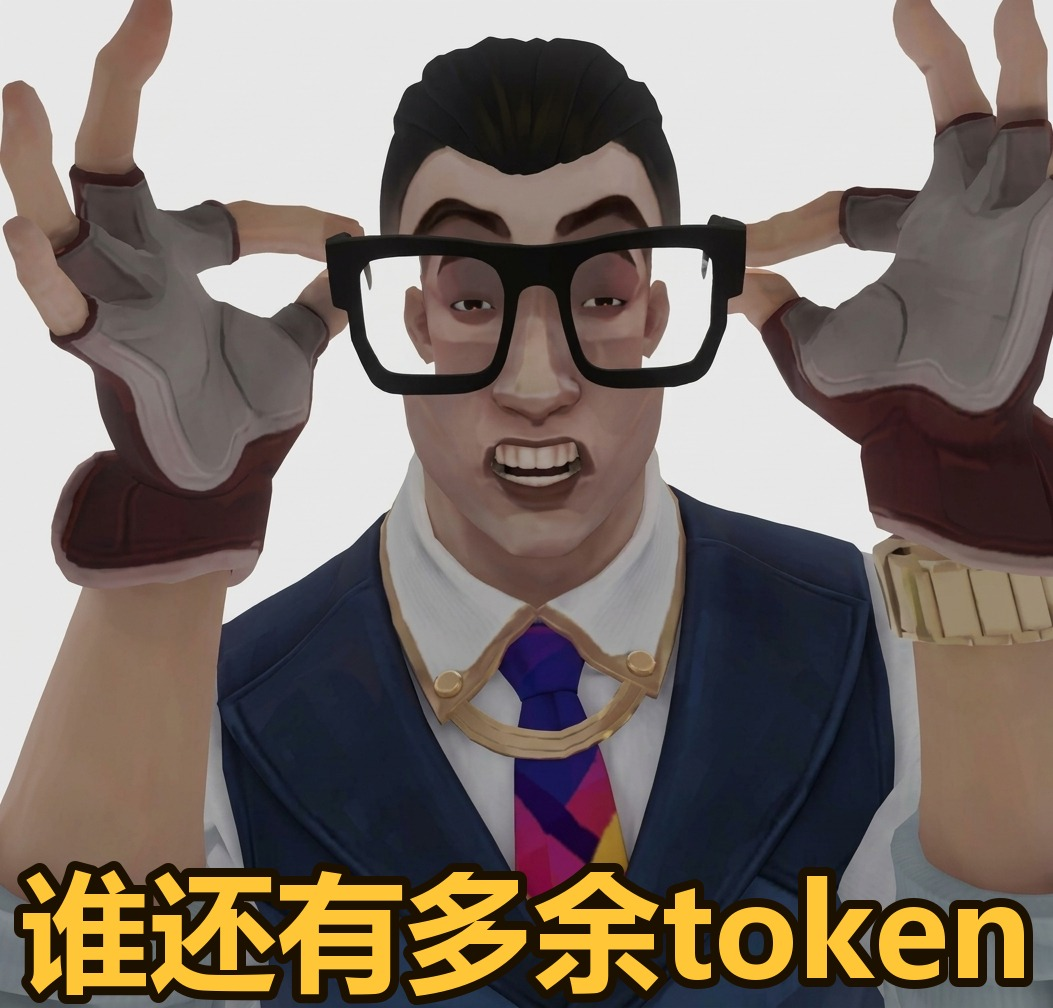
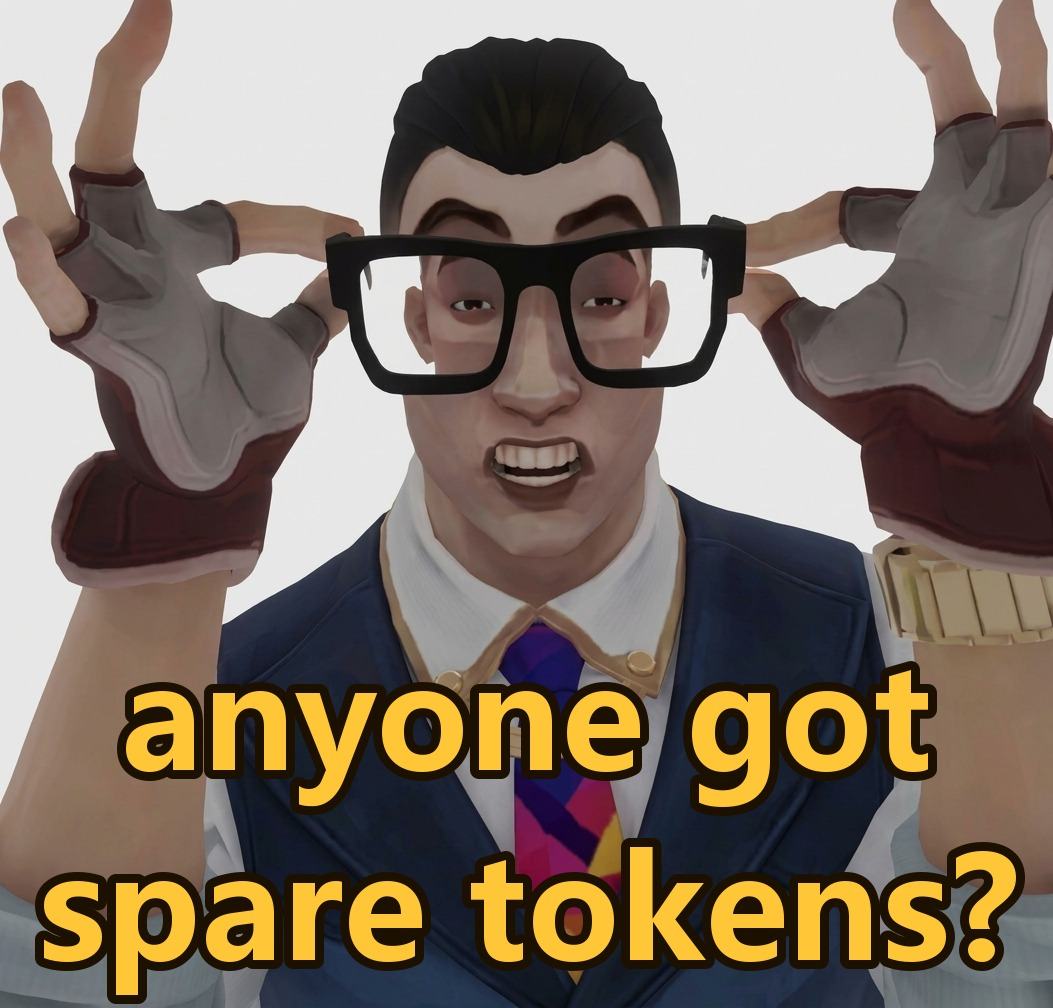
Recaption the meme in English
A Chinese-only caption is a joke an English-speaking team cannot read, which
defeats the purpose of including it. Same template, same gold treatment.

Two lines instead of one: the full question on a single line caps out around
76px at this width, which reads as a subtitle rather than a caption. Splitting
it allows 142px, which is what the original meme used. make_meme.py now takes
one string per line, computes the largest size at which every line fits, and
refuses to render rather than shrinking silently.

Still byte-reproducible from the committed script.

Changed region(s): [[0.0, 0.8304, 1.0, 1.0], [0.0912, 0.6458, 0.9117, 0.8304]]

diff --git a/assets/memes/make_meme.py b/assets/memes/make_meme.py
@@ -10,30 +10,39 @@ Usage:
     python make_meme.py path\\to\\base.jpg [out.jpg]
 
 The committed caption (spare_tokens.jpg) was produced from the 1053x1008 version
-of the template with these exact settings. Sizes are in pixels and are absolute,
-not relative, so a different-resolution base will place the text differently --
-adjust SIZE and the width ceiling together if you swap the source.
+of the template with these exact settings. Sizes are absolute, not relative, so a
+different-resolution base will place the text differently -- change SIZE and the
+width ceiling together if you swap the source.
+
+Language note: the caption is in English because the audience for this repository
+is an English-speaking engineering team. A Chinese-only caption is a joke they
+cannot read, which defeats the point. The two-line form exists because the full
+question set on one line caps out around 76px, which is far too small to carry a
+meme; splitting it allows 142px.
 """
 import os
 import sys
 from PIL import Image, ImageDraw, ImageFont
 
-TEXT = "谁还有多余token"
+# One string per line, top to bottom. The committed file uses these two.
+LINES = ["anyone got", "spare tokens?"]
 
 # Treatment, chosen to match the original meme's look and the image's own accents.
-SIZE = 128              # largest size at which all 9 glyphs fit this width
-FILL = (255, 199, 56)   # gold: picks up the chain and watch, reads on the navy suit
-OUTLINE = (28, 16, 0)   # near-black, warm, so the edge does not look pasted on
-STROKE = 9              # outline width
-BOTTOM_PAD = 2          # px of clearance under the baseline
-WIDTH_CEILING = 0.985   # never let the caption exceed this fraction of the width
+FILL = (255, 199, 56)     # gold: picks up the chain and watch, reads on the navy suit
+OUTLINE = (28, 16, 0)     # near-black, warm, so the edge does not look pasted on
+STROKE = 9                # outline width
+BOTTOM_PAD = 4            # px of clearance below the last line
+LINE_GAP_RATIO = 0.16     # leading between lines, as a fraction of the font size
+WIDTH_CEILING = 0.955     # never let a line exceed this fraction of the width
+HEIGHT_CEILING = 0.36     # sanity bound: the block must not swallow the picture.
+                          # The committed two-line treatment is 343px of 1008 = 34%, which
+                          # is deliberate -- this is meant to dominate, as the original did.
 
 FONT_CANDIDATES = [
-    r"C:\Windows\Fonts\msyhbd.ttc",     # Microsoft YaHei Bold -- the committed file
-    r"C:\Windows\Fonts\simhei.ttf",     # SimHei, heavier and squarer
-    r"C:\Windows\Fonts\msyh.ttc",
-    "/usr/share/fonts/opentype/noto/NotoSansCJK-Bold.ttc",
-    "/System/Library/Fonts/PingFang.ttc",
+    r"C:\Windows\Fonts\msyhbd.ttc",     # Microsoft YaHei Bold -- used for the committed file
+    r"C:\Windows\Fonts\arialbd.ttf",
+    "/usr/share/fonts/truetype/dejavu/DejaVuSans-Bold.ttf",
+    "/System/Library/Fonts/Supplemental/Arial Bold.ttf",
 ]
 
 
@@ -41,7 +50,7 @@ def pick_font():
     for p in FONT_CANDIDATES:
         if os.path.exists(p):
             return p
-    raise SystemExit("no CJK font found; add one to FONT_CANDIDATES")
+    raise SystemExit("no bold font found; add one to FONT_CANDIDATES")
 
 
 def main():
@@ -53,22 +62,47 @@ def main():
 
     im = Image.open(src).convert("RGB")
     W, H = im.size
-    font = ImageFont.truetype(pick_font(), SIZE)
-    d = ImageDraw.Draw(im)
+    probe = ImageDraw.Draw(im)
 
-    bb = d.textbbox((0, 0), TEXT, font=font, stroke_width=STROKE)
-    tw = bb[2] - bb[0]
-    if tw > W * WIDTH_CEILING:
+    def width_at(text, size):
+        f = ImageFont.truetype(pick_font(), size)
+        bb = probe.textbbox((0, 0), text, font=f, stroke_width=STROKE)
+        return bb[2] - bb[0]
+
+    # largest size at which EVERY line fits the width
+    size = None
+    for s in range(30, 400, 2):
+        if all(width_at(l, s) <= W * WIDTH_CEILING for l in LINES):
+            size = s
+        else:
+            break
+    if size is None:
+        raise SystemExit("not even the smallest size fits; check LINES and WIDTH_CEILING")
+
+    font = ImageFont.truetype(pick_font(), size)
+    metrics = []
+    for l in LINES:
+        bb = probe.textbbox((0, 0), l, font=font, stroke_width=STROKE)
+        metrics.append((l, bb, bb[3] - bb[1]))
+    gap = int(size * LINE_GAP_RATIO)
+    block_h = sum(m[2] for m in metrics) + gap * (len(LINES) - 1)
+
+    if block_h > H * HEIGHT_CEILING:
         raise SystemExit(
-            f"caption is {tw}px wide, over the {int(W * WIDTH_CEILING)}px ceiling for a "
-            f"{W}px image -- lower SIZE and re-run rather than clipping the text")
+            f"caption block is {block_h}px tall, over the {int(H * HEIGHT_CEILING)}px ceiling "
+            f"for a {H}px image -- lower the size or use fewer lines")
 
-    x = (W - tw) / 2 - bb[0]
-    y = H - bb[3] - BOTTOM_PAD          # glyph bottoms sit just above the edge
-    d.text((x, y), TEXT, font=font, fill=FILL, stroke_width=STROKE, stroke_fill=OUTLINE)
+    d = ImageDraw.Draw(im)
+    y = H - block_h - BOTTOM_PAD
+    for l, bb, h in metrics:
+        tw = bb[2] - bb[0]
+        x = (W - tw) / 2 - bb[0]
+        d.text((x, y - bb[1]), l, font=font, fill=FILL, stroke_width=STROKE, stroke_fill=OUTLINE)
+        y += h + gap
 
     im.save(dst, format="JPEG", quality=92, optimize=True)
-    print(f"wrote {dst}  ({im.size[0]}x{im.size[1]}, caption {tw}px wide)")
+    print(f"wrote {dst}  ({W}x{H}, size {size}px, block {block_h}px tall, "
+          f"widest line {max(width_at(l, size) for l in LINES)}px)")
 
 
 if __name__ == "__main__":

diff --git a/assets/memes/README.md b/assets/memes/README.md
@@ -2,9 +2,9 @@
 
 One image, and it is load-bearing.
 
-![谁还有多余token](spare_tokens.jpg)
+![anyone got spare tokens?](spare_tokens.jpg)
 
-**谁还有多余token** — "anyone got spare tokens?"
+**anyone got spare tokens?**
 
 The template is the Sage-glasses stock meme, captioned with the line from the source: *who has spare
 funds?* The caption here is the same question asked of whoever holds the API budget.
@@ -18,6 +18,20 @@ answer to "why did you stop measuring?" is sometimes this meme.
 
 Shared at the suggestion of the TypeSafe team, who asked for memes when the trial was granted.
 
+## Why the caption is in English
+
+The audience for this repository is an English-speaking engineering team. A Chinese-only caption is a
+joke they cannot read, which defeats the point of including it — it would be a picture with no punch
+line. The Chinese original (谁还有多余token) is the same joke, but only lands for a reader who reads
+Chinese, so it is not what ships.
+
+## Why two lines
+
+The full question on a single line tops out around **76 px** at this image width, which is far too
+small to carry a meme — it reads as a subtitle, not a caption. Splitting it over two lines allows
+**142 px**, which is the treatment the original used. `make_meme.py` computes the largest size at
+which every line still fits and refuses to render rather than shrinking silently.
+
 ## Provenance
 
 The base image is a third-party meme template and **is not redistributed here** — only the captioned
@@ -28,7 +42,9 @@ treatment is reproducible without shipping someone else's artwork:
 python make_meme.py path/to/base.jpg
 ```
 
-The caption treatment was picked by comparing candidates on the real image rather than guessing:
-white-on-black, black-on-white and gold-on-black were all rendered and inspected. Gold won because
-it repeats the chain and watch accents already in the frame and keeps contrast against the navy suit,
+The committed JPEG is byte-reproducible from that command.
+
+The treatment was picked by comparing candidates on the real image rather than guessing:
+white-on-black, black-on-white and gold-on-black were all rendered and inspected. Gold won because it
+repeats the chain and watch accents already in the frame and keeps contrast against the navy suit,
 where black text merged into the shirt on the left edge.

diff --git a/README.md b/README.md
@@ -327,10 +327,10 @@ Every number in this repository came out of a real API budget. The study in
 At $42/Btok with output free that is cheap, which is the whole point — but it is not free, so:
 
 <p align="center">
-  <img src="assets/memes/spare_tokens.jpg" alt="谁还有多余token" width="380">
+  <img src="assets/memes/spare_tokens.jpg" alt="anyone got spare tokens?" width="380">
 </p>
 
-<sub>谁还有多余token — shared at the TypeSafe team's request, who asked for memes when the trial was
-granted. Source template is third-party and not redistributed;
+<sub>**anyone got spare tokens?** — shared at the TypeSafe team's request, who asked for memes when the
+trial was granted. The source template is the Sage-glasses stock meme and is not redistributed;
 [`assets/memes/make_meme.py`](assets/memes/make_meme.py) regenerates this file exactly.</sub>
 
